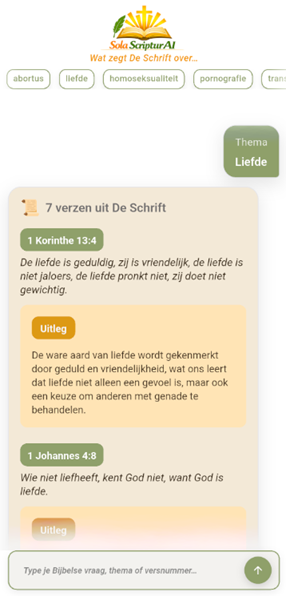
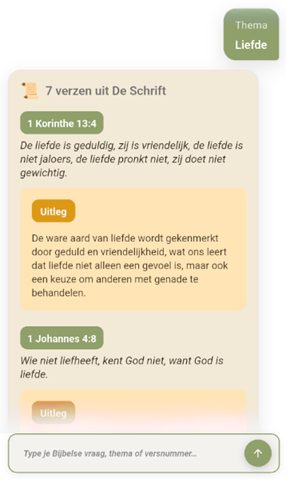
fix

diff --git a/style.css b/style.css
@@ -216,10 +216,25 @@ html, body {
 
 .section-divider {
   width: 100%;
-  height: 6px;
-  background: linear-gradient(90deg, #E79907 0%, #F2C15A 100%);
-  margin: 0 auto;
-  opacity: 0.9;
+  height: 8px;
+  position: relative;
+  margin: 0 auto 20px;
+  background: linear-gradient(90deg, #E79907 0%, #F2C15A 50%, #E79907 100%);
+  border-radius: 4px;
+  animation: dividerFade 1.2s ease forwards;
+  box-shadow: 0 0 12px rgba(231, 153, 7, 0.55); /* glow */
+}
+
+.section-divider::after {
+  content: "✝";
+  position: absolute;
+  top: -18px;
+  left: 50%;
+  transform: translateX(-50%);
+  font-size: 22px;
+  color: #E79907;
+  text-shadow: 0 0 6px rgba(231, 153, 7, 0.6);
+  animation: dividerFade 1.4s ease forwards;
 }
 
 @media (max-width: 800px) {
@@ -238,3 +253,15 @@ html, body {
     margin: 0 auto;
   }
 }
+
+@keyframes dividerFade {
+  from {
+    opacity: 0;
+    transform: translateY(10px);
+  }
+  to {
+    opacity: 1;
+    transform: translateY(0);
+  }
+}
+
